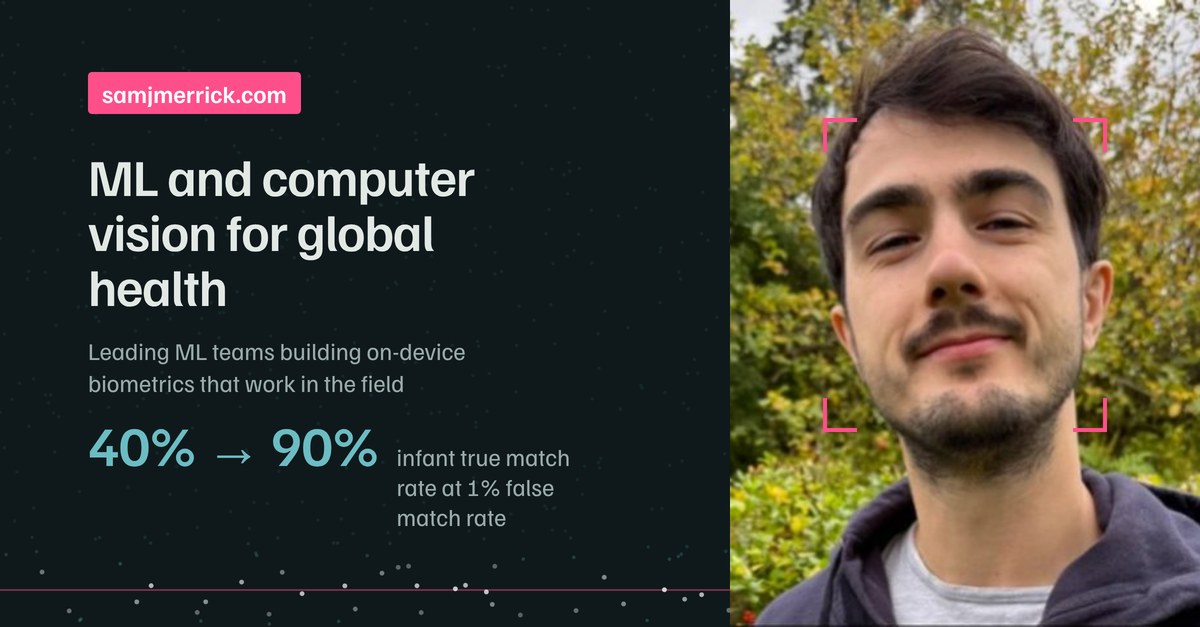
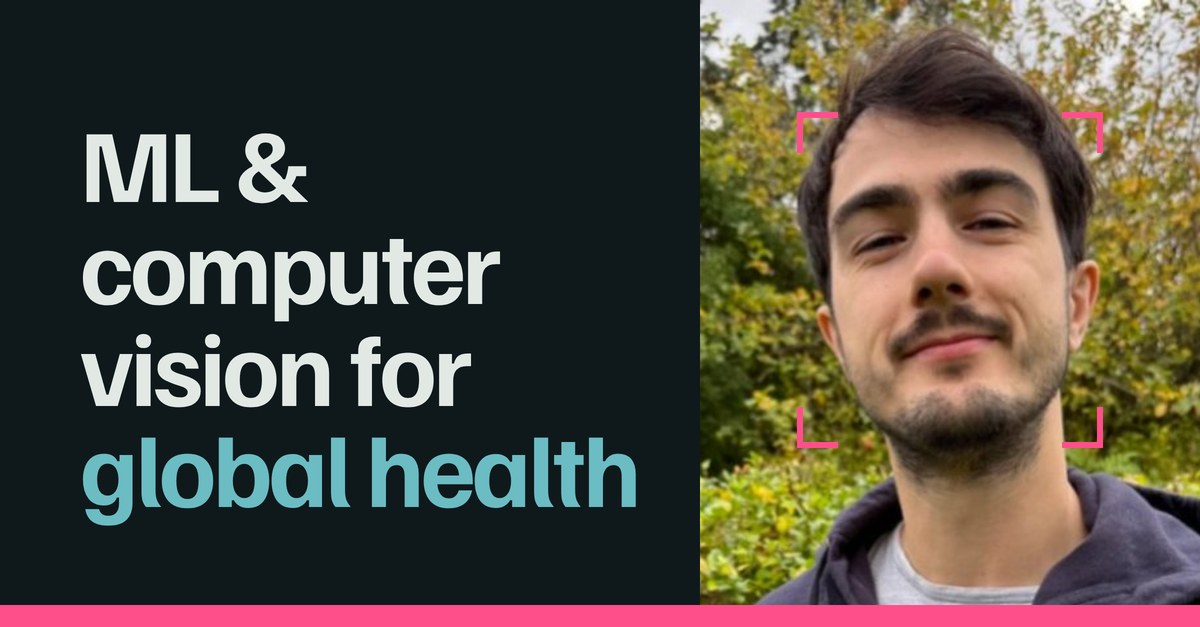
Use larger-text link preview image
Claude-Session: https://claude.ai/code/session_01M2ttewCPBZgFyLS9kB1xDo

diff --git a/index.html b/index.html
@@ -8,7 +8,7 @@
 <meta property="og:title" content="Sam Merrick — ML & computer vision leadership">
 <meta property="og:description" content="Leading ML teams on hard computer vision problems in international development.">
 <meta property="og:type" content="profile">
-<meta property="og:image" content="https://samjmerrick.com/og-image.jpg">
+<meta property="og:image" content="https://samjmerrick.com/og-image.jpg?v=2">
 <meta property="og:image:width" content="1200">
 <meta property="og:image:height" content="627">
 <meta property="og:url" content="https://samjmerrick.com/">
